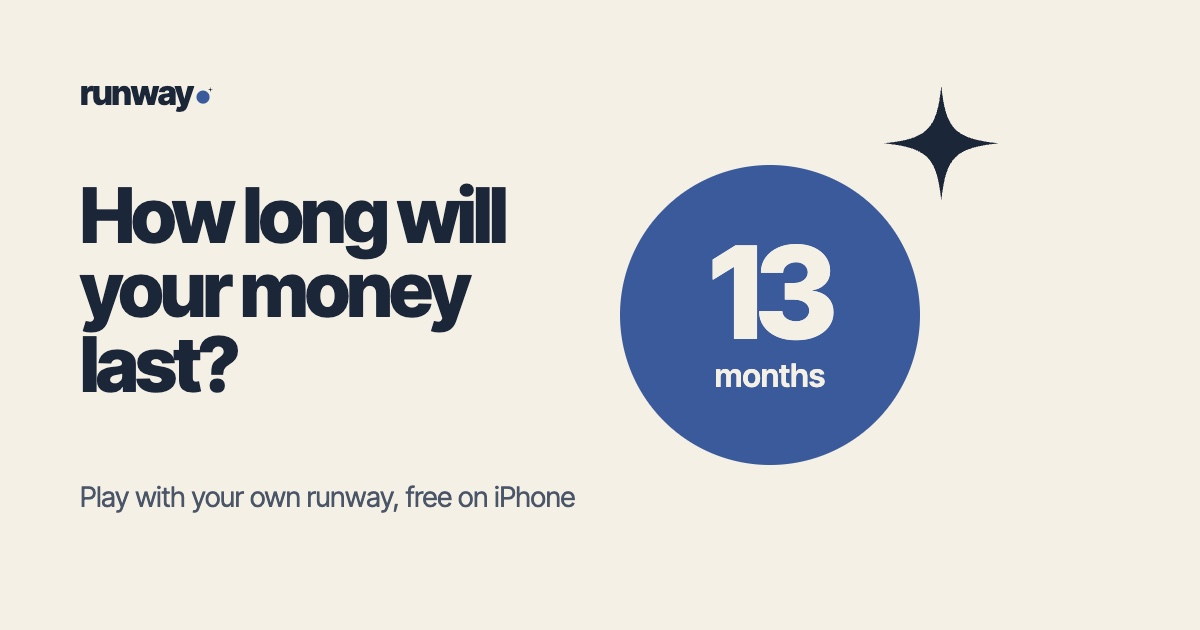
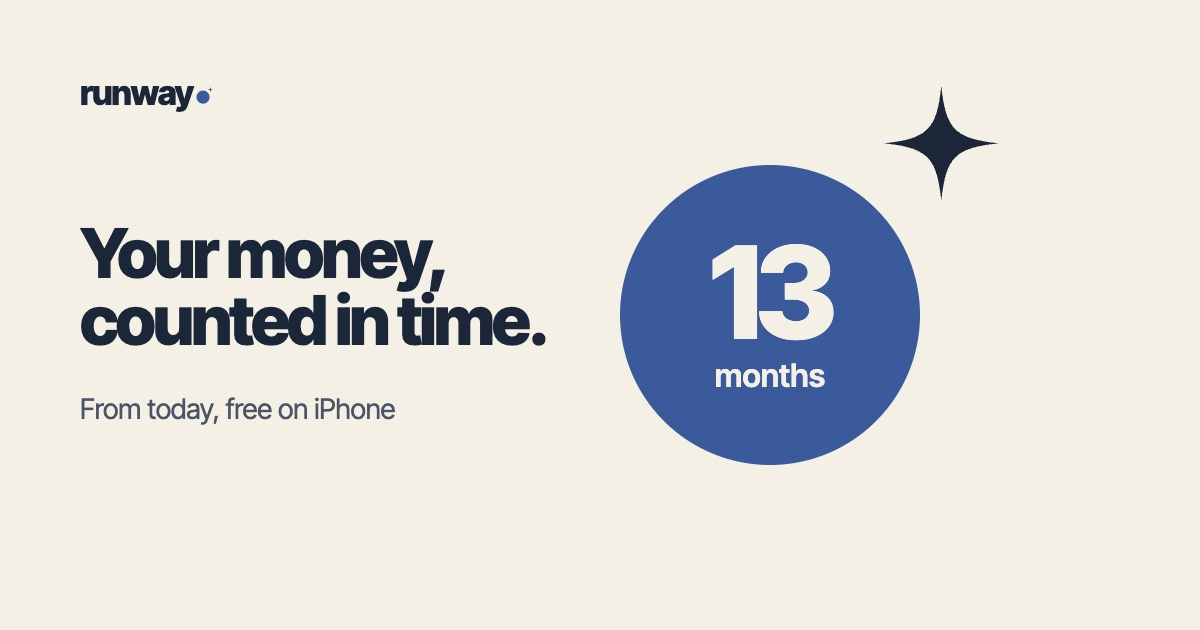
feat(site): the link preview says your money, counted in time
An optimistic line replaces the question about how long money lasts:
money measured as time, from today, free on iPhone. The page title and
the preview's title and text say the same.

Changed region(s): [[0.0617, 0.2714, 0.4625, 0.6635], [0.0617, 0.754, 0.4933, 0.8143]]

diff --git a/index.html b/index.html
@@ -3,7 +3,7 @@
   <head>
     <meta charset="utf-8" />
     <meta name="viewport" content="width=device-width, initial-scale=1" />
-    <title>Financial Runway: how long your money lasts</title>
+    <title>Financial Runway: your money, counted in time</title>
     <meta
       name="description"
       content="How long will your money last? One number, counted from today, and the month it runs out. An iPhone app with no account and no bank connection."
@@ -12,10 +12,10 @@
     <meta property="og:type" content="website" />
     <meta property="og:site_name" content="Financial Runway" />
     <meta property="og:url" content="https://echoshihtw.github.io/runway-site/" />
-    <meta property="og:title" content="Financial Runway: how long your money lasts" />
+    <meta property="og:title" content="Financial Runway: your money, counted in time" />
     <meta
       property="og:description"
-      content="How long your money lasts, counted from today. Private, on your iPhone, with no account and no bank connection."
+      content="Your money, counted in time: how many months it lasts from today. Private, on your iPhone, with no account and no bank connection."
     />
     <meta property="og:image" content="https://echoshihtw.github.io/runway-site/assets/og.jpg" />
     <meta property="og:image:type" content="image/jpeg" />
@@ -23,7 +23,7 @@
     <meta property="og:image:height" content="630" />
     <meta
       property="og:image:alt"
-      content="Financial Runway: the headline How long will your money last, beside a blue circle reading 13 months with the app&#39;s star."
+      content="Financial Runway: the headline Your money, counted in time, beside a blue circle reading 13 months with the app&#39;s star."
     />
     <meta name="twitter:card" content="summary_large_image" />
     <meta name="apple-itunes-app" content="app-id=6778675088" />

diff --git a/privacy/index.html b/privacy/index.html
@@ -23,7 +23,7 @@
     <meta property="og:image:height" content="630" />
     <meta
       property="og:image:alt"
-      content="Financial Runway: the headline How long will your money last, beside a blue circle reading 13 months with the app&#39;s star."
+      content="Financial Runway: the headline Your money, counted in time, beside a blue circle reading 13 months with the app&#39;s star."
     />
     <meta name="twitter:card" content="summary_large_image" />
     <link rel="icon" type="image/png" sizes="180x180" href="../assets/icon-180.png" />

diff --git a/support/index.html b/support/index.html
@@ -20,7 +20,7 @@
     <meta property="og:image:height" content="630" />
     <meta
       property="og:image:alt"
-      content="Financial Runway: the headline How long will your money last, beside a blue circle reading 13 months with the app&#39;s star."
+      content="Financial Runway: the headline Your money, counted in time, beside a blue circle reading 13 months with the app&#39;s star."
     />
     <meta name="twitter:card" content="summary_large_image" />
     <link rel="icon" type="image/png" sizes="180x180" href="../assets/icon-180.png" />
